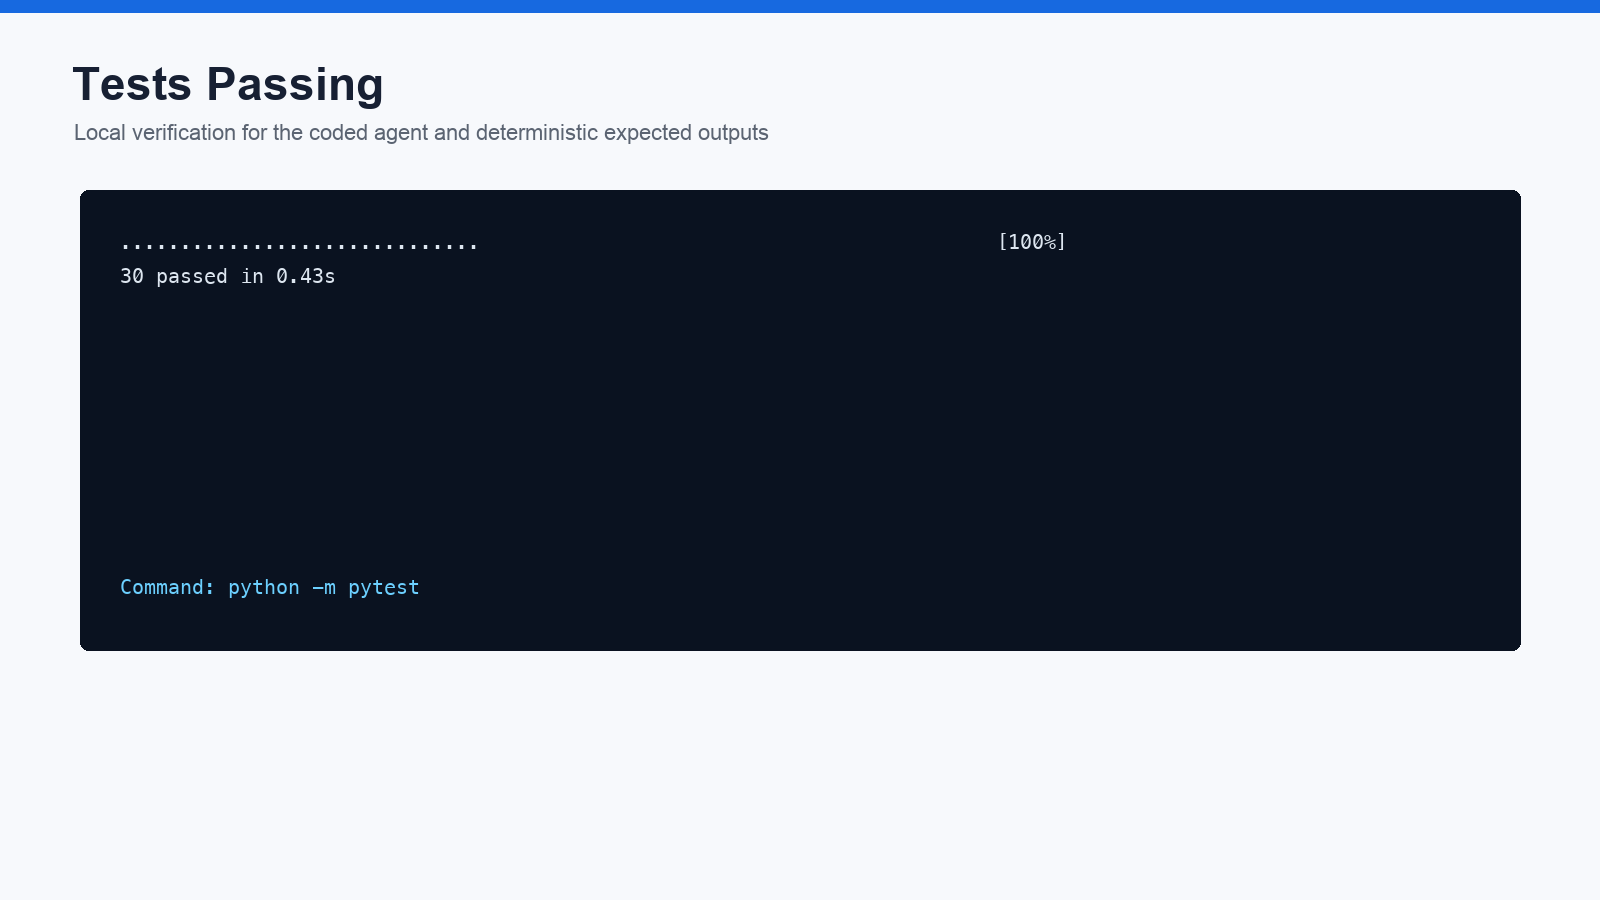
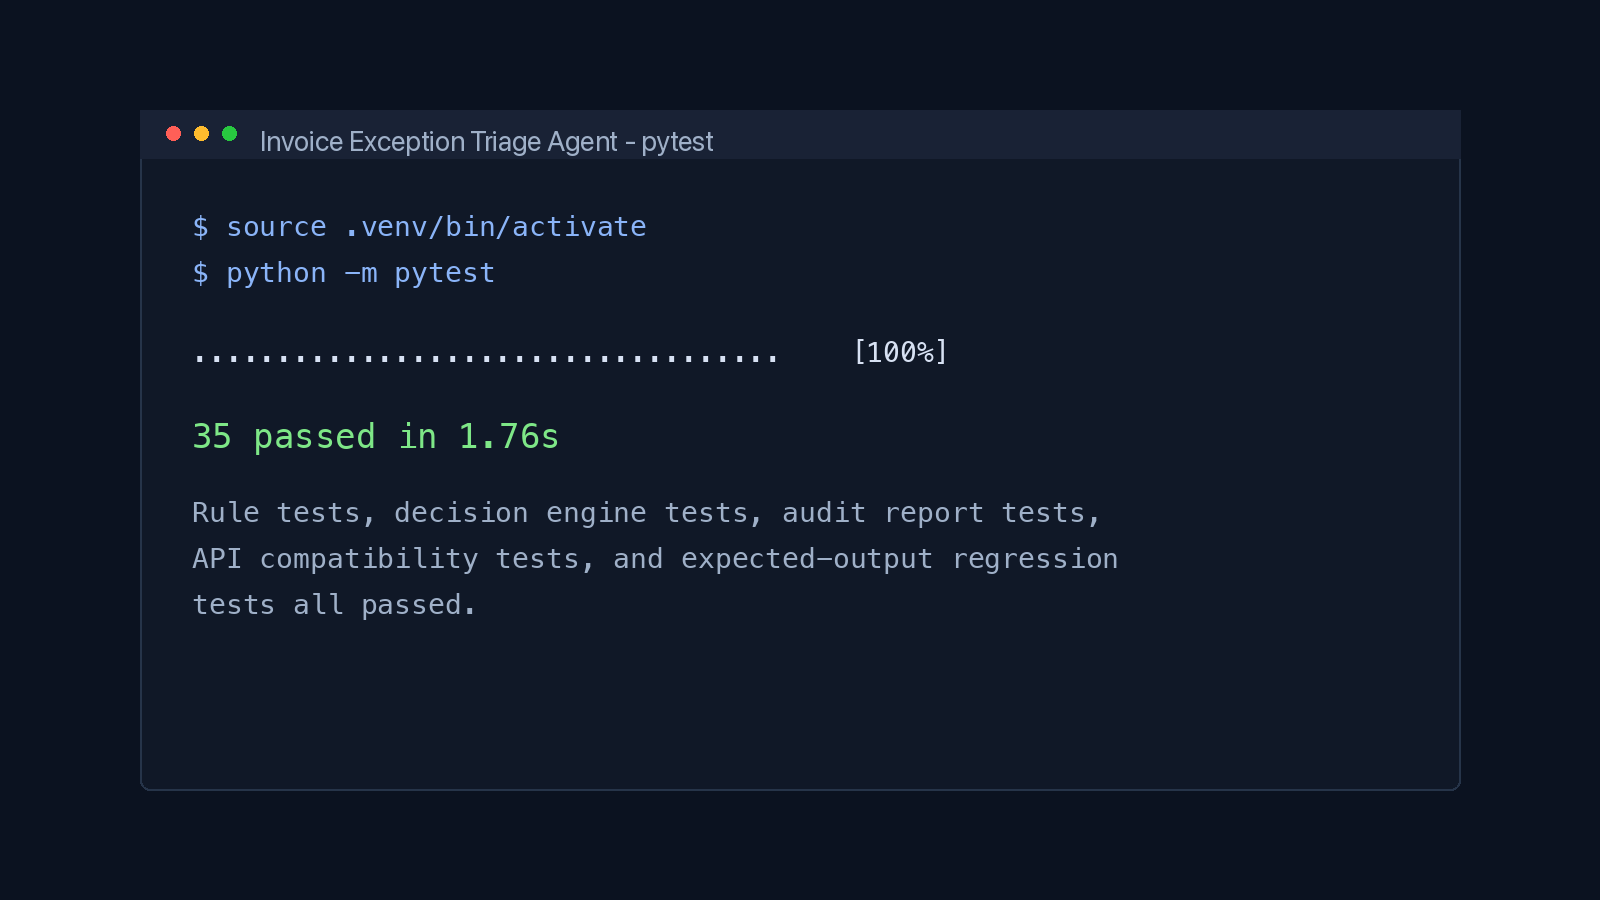
Add UiPath Studio Web debug evidence

diff --git a/tests/test_api.py b/tests/test_api.py
@@ -1,0 +1,51 @@
+from __future__ import annotations
+
+import json
+from pathlib import Path
+
+import pytest
+
+from invoice_agent.api import normalize_api_payload
+from invoice_agent.decision_engine import triage_invoice
+from invoice_agent.extraction import InvoiceValidationError
+
+SAMPLES = Path(__file__).resolve().parents[1] / "data" / "sample_invoices"
+
+
+def load_sample(name: str) -> dict:
+    return json.loads((SAMPLES / name).read_text(encoding="utf-8"))
+
+
+def test_api_normalizer_accepts_direct_invoice_json() -> None:
+    payload = normalize_api_payload(load_sample("clean_invoice.json"))
+
+    assert triage_invoice(payload)["decision"] == "AUTO_APPROVE"
+
+
+def test_api_normalizer_accepts_uipath_stringified_invoice_json() -> None:
+    payload = normalize_api_payload(json.dumps(load_sample("multiple_high_risk_flags_invoice.json")))
+    result = triage_invoice(payload)
+
+    assert result["decision"] == "ESCALATE_TO_HUMAN"
+    assert result["risk_level"] == "HIGH"
+
+
+def test_api_normalizer_accepts_double_encoded_uipath_body() -> None:
+    invoice = load_sample("multiple_high_risk_flags_invoice.json")
+    payload = normalize_api_payload(json.dumps(json.dumps(json.dumps(invoice))))
+    result = triage_invoice(payload)
+
+    assert result["decision"] == "ESCALATE_TO_HUMAN"
+
+
+def test_api_normalizer_accepts_uipath_bytes_body() -> None:
+    invoice = json.dumps(load_sample("multiple_high_risk_flags_invoice.json")).encode("utf-8")
+    payload = normalize_api_payload(invoice)
+    result = triage_invoice(payload)
+
+    assert result["decision"] == "ESCALATE_TO_HUMAN"
+
+
+def test_api_normalizer_rejects_non_object_payload() -> None:
+    with pytest.raises(InvoiceValidationError, match="invoice JSON object"):
+        normalize_api_payload("[object Object]")

diff --git a/src/invoice_agent/api.py b/src/invoice_agent/api.py
@@ -13,10 +13,32 @@ from .extraction import InvoiceValidationError, load_invoice
 from .risk_rules import load_reference_data
 
 try:  # FastAPI is optional so the CLI remains dependency-light.
-    from fastapi import FastAPI, HTTPException
+    from fastapi import Body, FastAPI, HTTPException
 except ImportError:  # pragma: no cover - exercised only when FastAPI is absent.
+    Body = None
     FastAPI = None
     HTTPException = None
+
+
+def normalize_api_payload(payload: Any) -> dict[str, Any]:
+    """Normalize direct JSON objects and UiPath stringified JSON bodies."""
+    candidate = payload
+    for _ in range(8):
+        if isinstance(candidate, (bytes, bytearray)):
+            candidate = candidate.decode("utf-8")
+            continue
+        if isinstance(candidate, dict):
+            return candidate
+        if not isinstance(candidate, str):
+            break
+        try:
+            candidate = json.loads(candidate)
+        except json.JSONDecodeError as exc:
+            raise InvoiceValidationError(
+                "Request body must be an invoice JSON object or a JSON string containing an invoice object."
+            ) from exc
+
+    raise InvoiceValidationError("Request body must resolve to an invoice JSON object.")
 
 
 def create_app() -> Any:
@@ -34,9 +56,9 @@ def create_app() -> Any:
         return {"status": "ok", "service": "invoice-exception-triage-agent"}
 
     @api.post("/triage/invoice")
-    def triage_endpoint(payload: dict[str, Any]) -> dict[str, Any]:
+    def triage_endpoint(payload: Any = Body(...)) -> dict[str, Any]:
         try:
-            return triage_invoice(payload)
+            return triage_invoice(normalize_api_payload(payload))
         except InvoiceValidationError as exc:
             raise HTTPException(status_code=422, detail=str(exc)) from exc
 
@@ -73,4 +95,3 @@ def main(argv: list[str] | None = None) -> int:
 
 if __name__ == "__main__":
     raise SystemExit(main())
-

diff --git a/submission/uipath-setup-status.md b/submission/uipath-setup-status.md
@@ -6,11 +6,11 @@ Update this file as the real UiPath setup progresses.
 
 Minimum strong submission target:
 
-- [ ] Real UiPath Studio Web API Workflow calls the coded agent HTTPS endpoint.
+- [x] Real UiPath Studio Web API Workflow calls the coded agent HTTPS endpoint.
 - [x] Public HTTPS endpoint tested from local machine.
 - [x] Clean invoice returns `AUTO_APPROVE` from local API.
 - [x] Risky invoice returns `ESCALATE_TO_HUMAN` from public HTTPS endpoint.
-- [ ] Screenshot captured.
+- [x] Screenshot captured.
 
 Enhanced target:
 
@@ -30,14 +30,23 @@ http://127.0.0.1:8000/triage/invoice
 Public HTTPS endpoint:
 
 ```text
-https://53962868a6f7eb.lhr.life/triage/invoice
+https://bf5b9a90a3340d.lhr.life/triage/invoice
 ```
 
 Note: this is a temporary localhost.run tunnel and only remains valid while the local `uvicorn` and SSH tunnel sessions are running.
 
 ## Tenant Notes
 
-- UiPath account: TODO
-- Tenant / folder: TODO
-- Studio Web API Workflow name: `Invoice Triage API`
+- UiPath account: `authur`
+- Tenant / folder: default Studio Web workspace observed in Automation Cloud.
+- Studio Web API Workflow name: `API Workflow`
 - Maestro process name: `Invoice Exception Triage`
+
+## Verified Studio Web Debug Result
+
+- Date/time: 2026-05-30 Asia/Shanghai
+- Result: UiPath Studio Web API Workflow debug completed with HTTP Request `Successful`.
+- Status code: `200`
+- Returned decision: `ESCALATE_TO_HUMAN`
+- Returned risk level: `HIGH`
+- Evidence screenshot: `submission/screenshots/07-uipath-debug-success.png`

diff --git a/docs/submission-checklist.md b/docs/submission-checklist.md
@@ -10,8 +10,8 @@ Use this as the final pre-submission gate. Items marked complete are satisfied b
 - [x] README included and judge-readable in under 3 minutes.
 - [x] Setup instructions included in `README.md`.
 - [ ] Demo video recorded and kept under 5 minutes.
-- [ ] Presentation deck prepared or attached if required by the submission phase.
-- [ ] Screenshots attached to Devpost or stored in a submission folder.
+- [x] Presentation deck prepared or attached if required by the submission phase.
+- [x] Screenshots attached to Devpost or stored in a submission folder.
 - [x] Codex evidence included in `docs/codex-evidence/`.
 - [x] Sample data included in `data/sample_invoices/` and `data/mock_erp/`.
 - [x] Tests passing locally with `python -m pytest`.
@@ -23,8 +23,8 @@ Use this as the final pre-submission gate. Items marked complete are satisfied b
 - [x] Maestro BPMN-style flow documented in `uipath/maestro-bpmn-notes.md`.
 - [x] Human-in-the-loop branch documented for Action Center.
 - [x] Technical exception lane documented.
-- [ ] UiPath Automation Cloud running flow configured in a tenant.
-- [ ] API Workflow tested from UiPath Studio Web against hosted endpoint.
+- [x] UiPath Automation Cloud running flow configured in a tenant.
+- [x] API Workflow tested from UiPath Studio Web against hosted endpoint.
 - [ ] Maestro process tested with clean, medium-risk, and high-risk payloads.
 - [ ] Action Center approval task screenshot captured.
 
@@ -85,8 +85,7 @@ python -m invoice_agent --invoice data/sample_invoices/multiple_high_risk_flags_
 
 ## Final No-Fake-Claims Check
 
-- [x] README says no UiPath tenant deployment is included.
+- [x] README distinguishes the tested Studio Web API Workflow from Maestro / Action Center setup notes.
 - [x] UiPath docs describe how to reproduce the flow.
 - [x] Demo script distinguishes local prototype from tenant deployment.
-- [ ] If a real UiPath tenant flow is later built, add screenshots and update this checklist.
-
+- [x] Real UiPath Studio Web API Workflow debug evidence added in `submission/uipath-setup-status.md`.

diff --git a/uipath/api-workflow-contract.md b/uipath/api-workflow-contract.md
@@ -22,6 +22,18 @@ POST https://<approved-host>/triage/invoice
 
 Use an approved HTTPS host or demo tunnel if UiPath Automation Cloud must reach a local machine. Store base URL and credentials in tenant-approved assets or secret configuration.
 
+## Studio Web Body Expression
+
+For a standard API client, send the invoice as the JSON object shown below.
+
+For UiPath Studio Web's HTTP Request activity, set the Body expression to:
+
+```javascript
+JSON.stringify(invoicePayload)
+```
+
+The API also accepts this UiPath stringified body form and normalizes it back into the same invoice object before rule evaluation.
+
 ## Headers
 
 ```text
@@ -206,4 +218,3 @@ HTTP `200`: parse `triageResponse` and continue to the business decision gateway
 HTTP `422`: invoice JSON is malformed or missing required fields. Route to the technical validation lane.
 
 Timeout or non-2xx response: retry according to tenant policy, then route to operations support. Do not auto-approve when the API call fails.
-

diff --git a/docs/codex-evidence/codex-usage.md b/docs/codex-evidence/codex-usage.md
@@ -27,6 +27,7 @@ Tests:
 - `tests/test_audit_report.py`
 - `tests/test_extraction.py`
 - `tests/test_expected_outputs.py`
+- `tests/test_api.py`
 
 Sample and reference data:
 
@@ -58,6 +59,7 @@ Codex helped:
 - create tests for rules, input validation, deterministic outputs, and sample coverage;
 - write an OpenAPI contract matching the implemented endpoint;
 - document how UiPath API Workflow and Maestro BPMN can call and route the coded agent;
+- configure and debug a real UiPath Studio Web API Workflow against a temporary HTTPS endpoint;
 - harden the README and demo script for judge review.
 
 ## Meaningful Integration Into The Working Project
@@ -70,6 +72,7 @@ The Codex-generated output is not a separate note or mockup. It is integrated in
 - The expected outputs under `data/expected_outputs/` are reproducible from the current engine and guarded by tests.
 - The OpenAPI contract documents the same request and response fields returned by `triage_invoice`.
 - The UiPath docs explain how the response fields drive Maestro branching and Action Center approval.
+- The Studio Web debug evidence shows the UiPath API Workflow calling the coded agent and receiving `ESCALATE_TO_HUMAN`.
 
 ## Verification Evidence
 
@@ -82,7 +85,7 @@ python -m pytest
 Latest local result during hardening:
 
 ```text
-30 passed
+35 passed
 ```
 
 Sample CLI verification:
@@ -97,11 +100,12 @@ python -m invoice_agent --invoice data/sample_invoices/multiple_high_risk_flags_
 Add final evidence links here before Devpost submission:
 
 - Screenshot: Codex session showing repository creation and test run: `TODO`
-- Screenshot: terminal output with `python -m pytest`: `TODO`
-- Screenshot: generated audit report: `TODO`
+- Screenshot: terminal output with `python -m pytest`: `submission/screenshots/01-tests-passing.png`
+- Screenshot: generated audit report: `submission/screenshots/04-audit-report.png`
+- Screenshot: UiPath Studio Web API Workflow debug success: `submission/screenshots/07-uipath-debug-success.png`
 - Session export link or transcript: `TODO`
 - Devpost project evidence field: `TODO`
 
 ## Boundary
 
-Codex assisted with implementation and documentation. This repository does not claim that Codex deployed a UiPath tenant workflow, created tenant credentials, or published a live Automation Cloud process.
+Codex assisted with implementation, documentation, and Studio Web API Workflow setup. This repository claims a tested UiPath Studio Web API Workflow call, but does not claim a deployed Maestro or Action Center production process.

diff --git a/submission/final-runbook.md b/submission/final-runbook.md
@@ -13,7 +13,7 @@ python -m invoice_agent --invoice data/sample_invoices/multiple_high_risk_flags_
 
 Expected:
 
-- `30 passed`
+- `35 passed`
 - clean invoice: `AUTO_APPROVE`
 - risky invoice: `ESCALATE_TO_HUMAN`
 
@@ -29,14 +29,14 @@ Expected:
 
 ## UiPath
 
-- [ ] Start coded agent API.
-- [ ] Expose API through HTTPS.
-- [ ] Create Studio Web API Workflow.
+- [x] Start coded agent API.
+- [x] Expose API through HTTPS.
+- [x] Create Studio Web API Workflow.
 - [ ] Test clean invoice.
-- [ ] Test high-risk invoice.
+- [x] Test high-risk invoice.
 - [ ] Add Maestro BPMN flow if tenant supports it.
 - [ ] Add Action Center task if tenant supports it.
-- [ ] Capture screenshots.
+- [x] Capture screenshots.
 
 ## Devpost
 

diff --git a/docs/demo-script.md b/docs/demo-script.md
@@ -10,7 +10,7 @@ Use this path if recording quickly:
 2. Run clean invoice -> show `AUTO_APPROVE`.
 3. Run risky invoice -> show `ESCALATE_TO_HUMAN`.
 4. Open generated audit report.
-5. Show UiPath BPMN/API docs.
+5. Show UiPath Studio Web debug output and BPMN/API docs.
 6. Show Codex evidence.
 
 ## 0:00-0:25 - Business Problem
@@ -51,7 +51,7 @@ Narration:
 Expected:
 
 ```text
-30 passed
+35 passed
 ```
 
 ## 1:20-2:05 - Clean Invoice Auto-Approved
@@ -103,13 +103,14 @@ Business impact:
 
 Show:
 
+- `submission/screenshots/07-uipath-debug-success.png`;
 - `uipath/maestro-bpmn-notes.md`;
 - `uipath/studio-web-setup.md`;
 - `uipath/api-workflow-contract.md`.
 
 Narration:
 
-"In UiPath, the API Workflow sends the invoice JSON and receives the triage response. Maestro uses a decision gateway: AUTO_APPROVE goes to ERP posting, REVIEW_REQUIRED goes to AP analyst review, and ESCALATE_TO_HUMAN creates an Action Center approval task."
+"In UiPath, the Studio Web API Workflow calls the coded agent through HTTPS and receives a 200 response with HIGH risk and ESCALATE_TO_HUMAN. Maestro then uses the documented decision gateway: AUTO_APPROVE goes to ERP posting, REVIEW_REQUIRED goes to AP analyst review, and ESCALATE_TO_HUMAN creates an Action Center approval task."
 
 ## 3:35-4:05 - Audit And Exception Handling
 

diff --git a/README.md b/README.md
@@ -206,6 +206,8 @@ curl -s http://127.0.0.1:8000/triage/invoice \
 
 OpenAPI contract: `openapi/invoice-triage-api.yaml`.
 
+For UiPath Studio Web HTTP Request activities, use `JSON.stringify(invoicePayload)` as the Body expression. The API accepts both a normal invoice JSON object and this UiPath stringified JSON form.
+
 ## UiPath Integration
 
 Practical setup docs:
@@ -213,6 +215,8 @@ Practical setup docs:
 - `uipath/studio-web-setup.md`: Studio Web / API Workflow checklist.
 - `uipath/api-workflow-contract.md`: exact request and response examples.
 - `uipath/maestro-bpmn-notes.md`: BPMN-style flow and branch conditions.
+
+Current tenant status: a UiPath Studio Web API Workflow has been configured and debug-tested against a temporary HTTPS tunnel. Maestro and Action Center are documented as reproducible setup steps, not claimed as deployed runtime artifacts.
 
 Recommended Maestro flow:
 
@@ -268,4 +272,3 @@ The Codex-generated output is integrated into the working project through source
 ## License
 
 MIT. See `LICENSE`.
-

diff --git a/submission/screenshot-checklist.md b/submission/screenshot-checklist.md
@@ -4,11 +4,12 @@ Save final screenshots under `submission/screenshots/`.
 
 ## Required / High-Value Screenshots
 
-- [x] `01-tests-passing.png`: generated evidence image showing `python -m pytest` and `30 passed`.
+- [x] `01-tests-passing.png`: generated evidence image showing `python -m pytest` and `35 passed`.
 - [x] `02-clean-auto-approve.png`: generated evidence image showing clean invoice `AUTO_APPROVE`.
 - [x] `03-risky-human-escalation.png`: generated evidence image showing risky invoice `ESCALATE_TO_HUMAN`.
 - [x] `04-audit-report.png`: generated evidence image with reasons and flags.
 - [x] `05-uipath-flow.png`: generated BPMN-style UiPath flow image.
+- [x] `07-uipath-debug-success.png`: Studio Web API Workflow debug output showing HTTP `200`, `HIGH`, and `ESCALATE_TO_HUMAN`.
 - [ ] `06-uipath-api-workflow.png`: Studio Web API Workflow configuration.
 - [ ] `07-uipath-maestro-branching.png`: Maestro BPMN decision gateway or flow view.
 - [ ] `08-action-center-task.png`: Action Center human approval task, if available.
@@ -19,6 +20,6 @@ Save final screenshots under `submission/screenshots/`.
 
 Capture these instead:
 
-- [ ] API Workflow test call output from Studio Web.
+- [x] API Workflow test call output from Studio Web.
 - [ ] `uipath/maestro-bpmn-notes.md` showing the reproducible BPMN flow.
 - [ ] `uipath/studio-web-setup.md` checklist.

diff --git a/uipath/studio-web-setup.md b/uipath/studio-web-setup.md
@@ -52,7 +52,8 @@ Expected:
   - Headers:
     - `Content-Type: application/json`
     - `Accept: application/json`
-  - Body: `invoicePayload`
+  - Body for a workflow input object: `JSON.stringify(invoicePayload)`
+  - Body for a hardcoded Studio Web debug sample: `JSON.stringify({ invoice_id: "INV-DUP-1002", supplier_id: "SUP-7777", ... })`
 - [ ] Parse the response body as JSON.
 - [ ] Assign parsed response to `triageResponse`.
 - [ ] Return `triageResponse` from the workflow.
@@ -129,4 +130,3 @@ For `ESCALATE_TO_HUMAN`:
 - [ ] Non-2xx responses do not auto-approve invoices.
 - [ ] Full `triageResponse` is logged or attached to the case.
 - [ ] Demo script does not imply the UiPath flow is deployed unless these steps have actually been completed.
-

diff --git a/submission/deck/presentation-outline.md b/submission/deck/presentation-outline.md
@@ -28,6 +28,7 @@ Start -> Receive invoice -> Call triage API -> Decision gateway -> Auto approve 
 - Tests passing.
 - Clean invoice: `AUTO_APPROVE`.
 - Risky invoice: `ESCALATE_TO_HUMAN`.
+- UiPath Studio Web API Workflow debug: HTTP `200`.
 - Audit report with reasons and flags.
 
 ## Slide 6: UiPath Fit
@@ -48,4 +49,3 @@ Start -> Receive invoice -> Call triage API -> Decision gateway -> Auto approve 
 - Add authentication.
 - Add document extraction intake.
 - Add AP metrics dashboard.
-